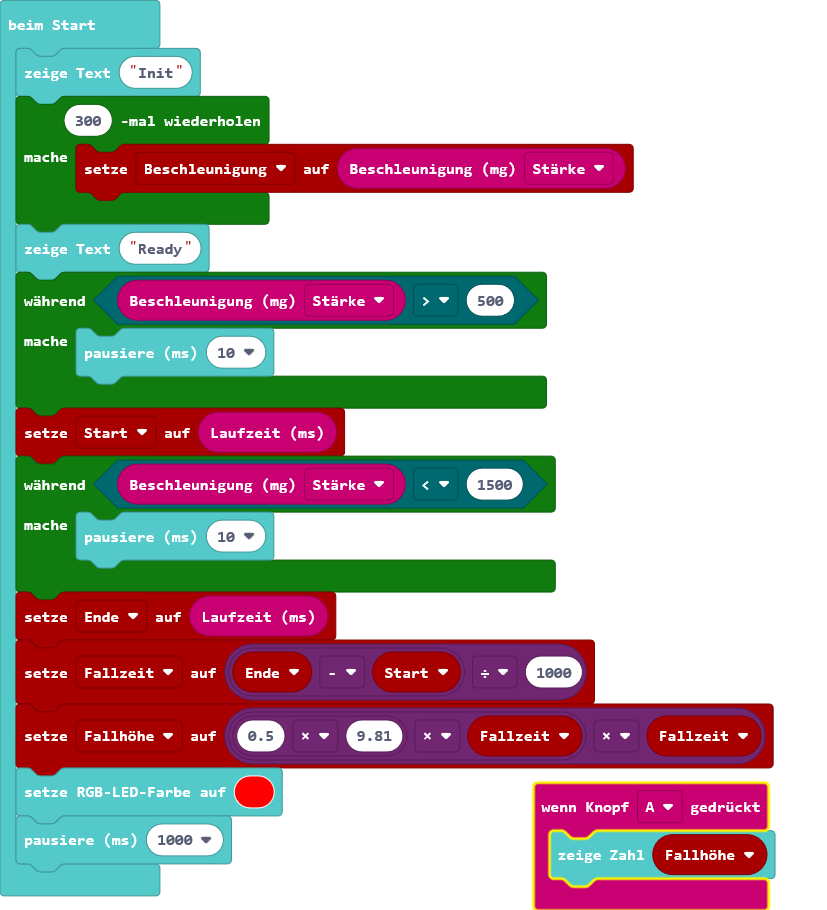
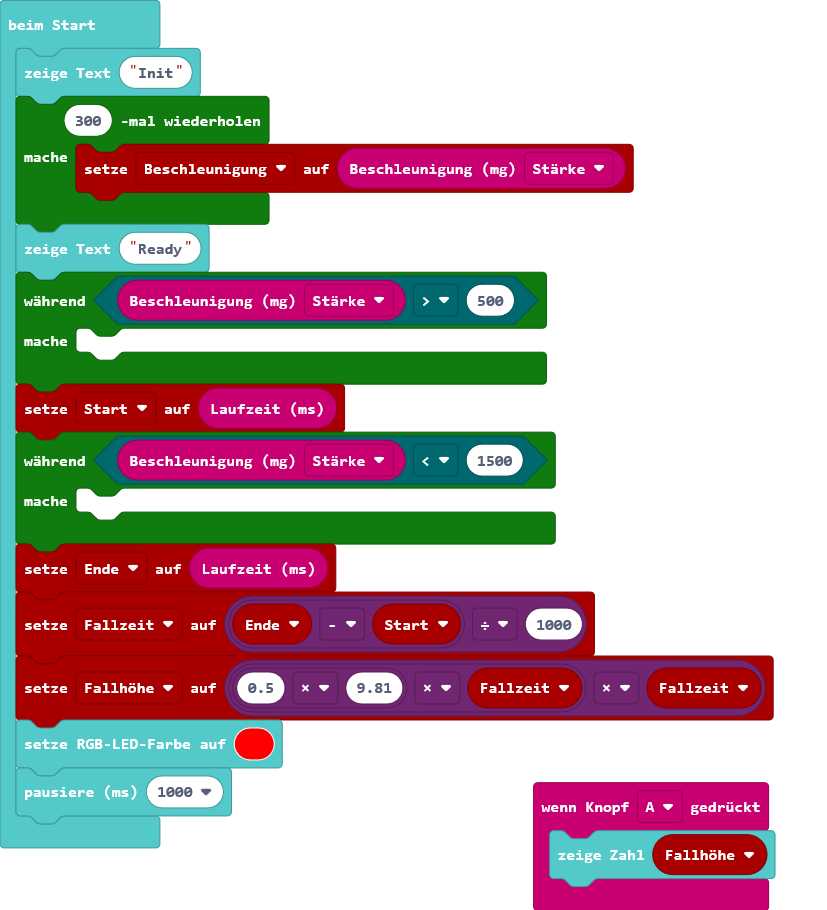
Aktualisiere main.blocks, main.ts

Changed region(s): [[0.0, 0.3385, 0.9371, 1.0]]

diff --git a/main.ts b/main.ts
@@ -9,11 +9,11 @@ for (let index = 0; index < 300; index++) {
 }
 basic.showString("Ready")
 while (input.acceleration(Dimension.Strength) > 500) {
-    basic.pause(10)
+	
 }
 let Start = input.runningTime()
 while (input.acceleration(Dimension.Strength) < 1500) {
-    basic.pause(10)
+	
 }
 let Ende = input.runningTime()
 let Fallzeit = (Ende - Start) / 1000
